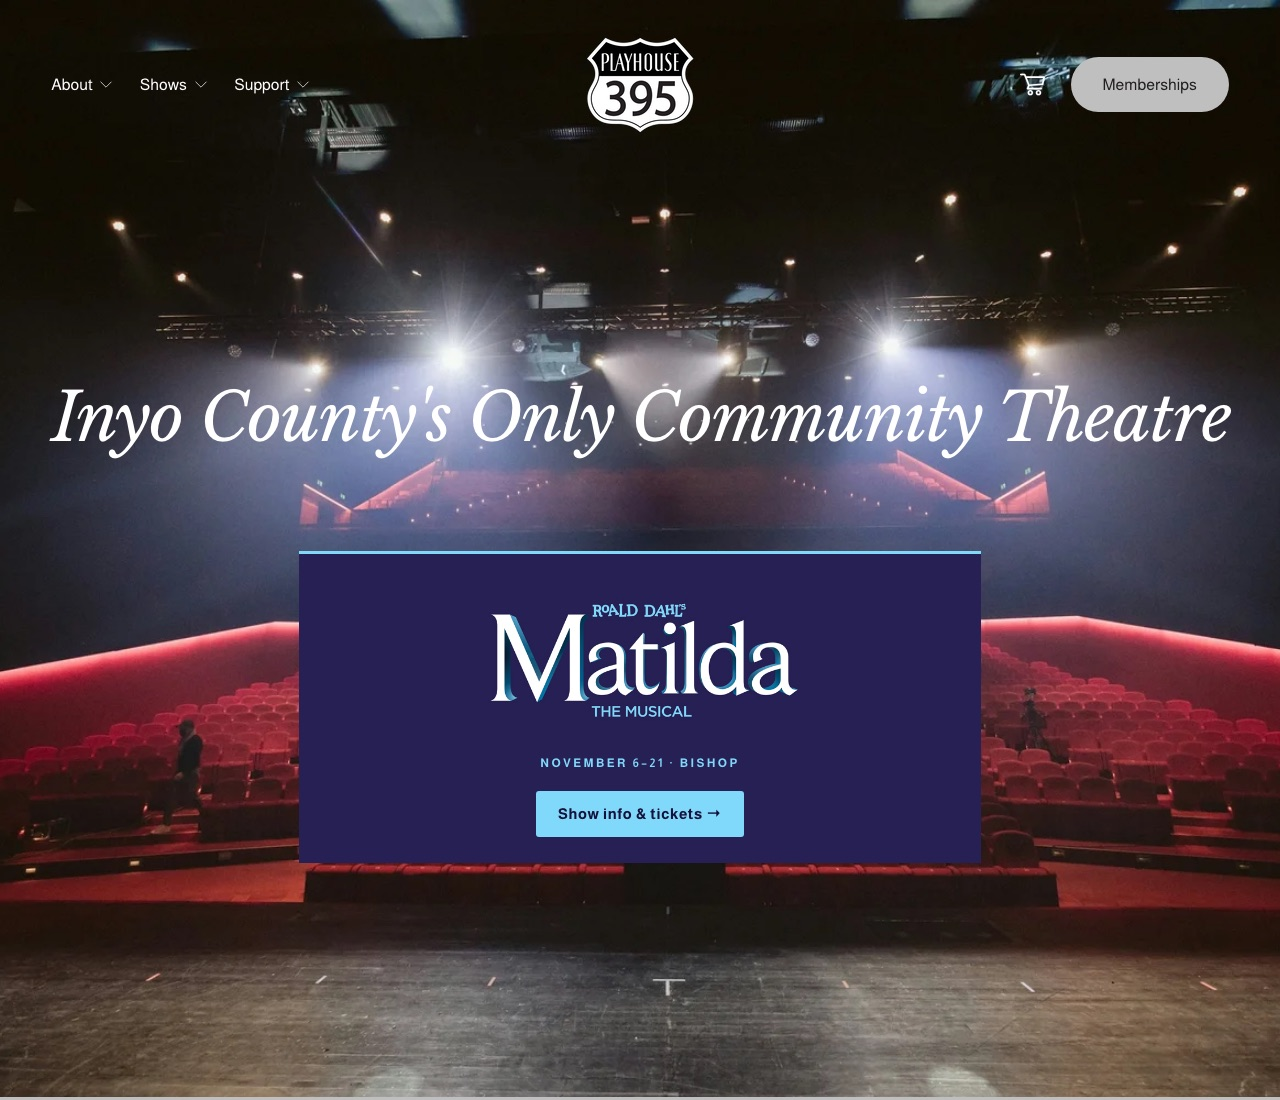
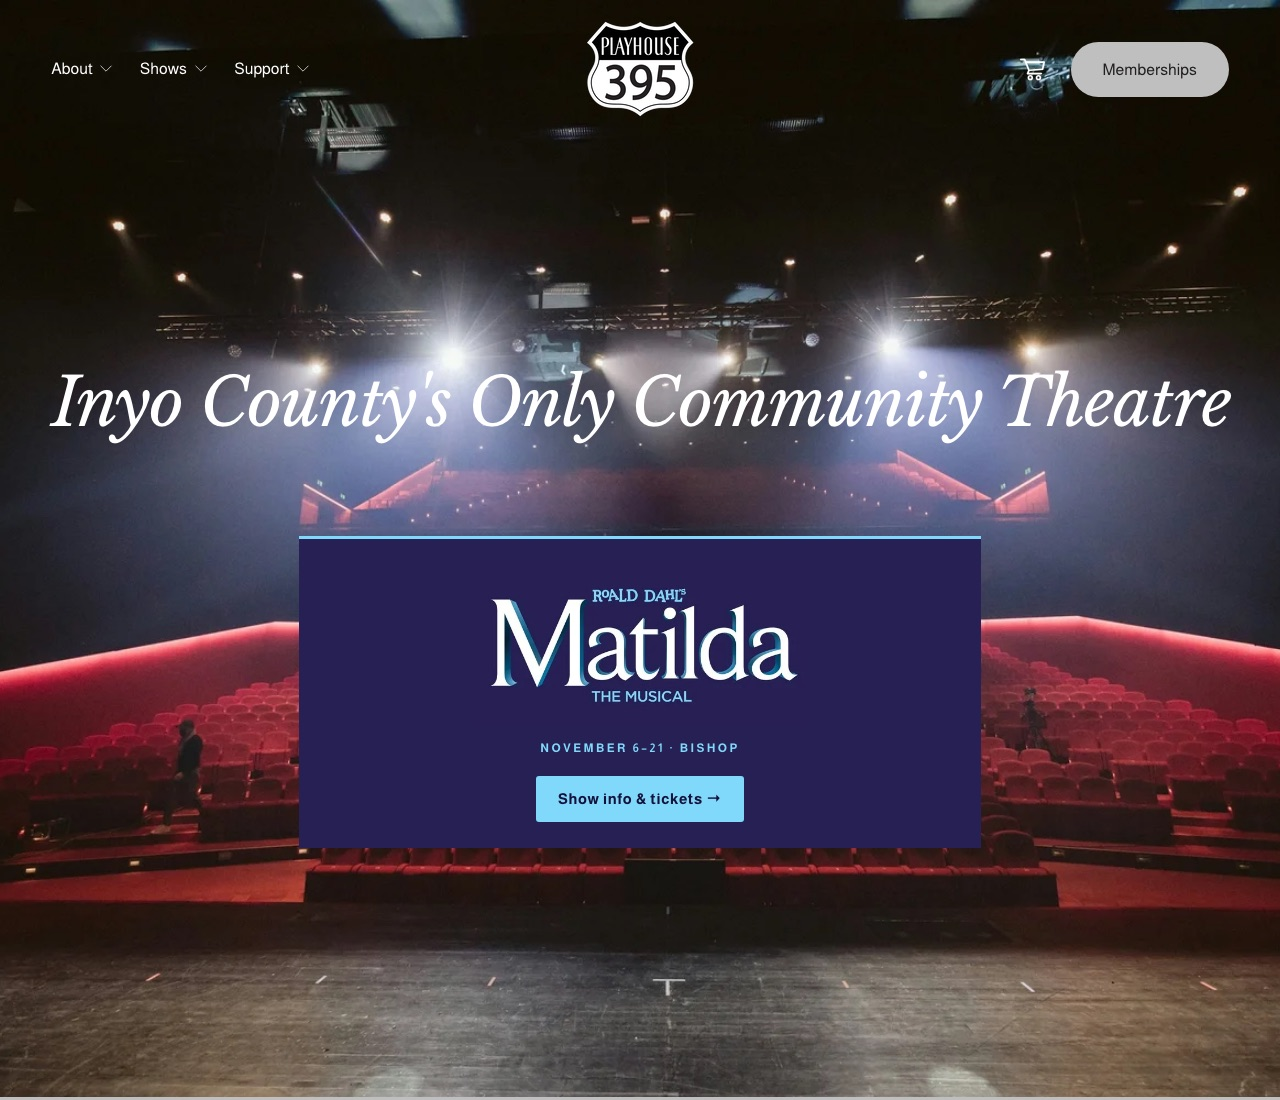
playhouse-395: Matilda publicity is live
The homepage card and the Matilda page are up on playhouse395.com and the
flyer is printed. The publicity page shows screenshots of the live homepage,
calls the old bar Before, marks the last step done, and its card says Live.
The playbook marks the publicity stage done and moves its next step on.

diff --git a/src/web/public/work/playhouse-395/matilda-publicity/index.html b/src/web/public/work/playhouse-395/matilda-publicity/index.html
@@ -107,7 +107,7 @@
 <div class="wrap">
 
   <header>
-    <div class="eyebrow"><a href="../">Playhouse 395</a> &middot; Confirmed direction &middot; October 2026</div>
+    <div class="eyebrow"><a href="../">Playhouse 395</a> &middot; Live &middot; October 2026</div>
     <h1>Matilda: the flyer and the website</h1>
     <p class="sub">The confirmed marketing direction for Matilda: the flyer, the playhouse395.com homepage,
     and the Matilda page, so that everything someone sees about the show says the same thing and leads to
@@ -142,7 +142,7 @@
         the website.</li>
       <li><b>Ticket prices are set:</b> $25 adults, $18 for seniors and students, $10 under 10.</li>
       <li><b>The flyer and the Matilda page say &ldquo;Not affiliated with BUSD&rdquo;</b>, in very small print.</li>
-      <li><b>Nothing is left to decide.</b> What remains is putting it live; section 4 has the steps.</li>
+      <li><b>It is all live:</b> the flyer is printed, and the homepage card and the Matilda page are up on playhouse395.com.</li>
     </ul>
   </div>
 
@@ -168,23 +168,23 @@
     <div class="sec-head">
       <div class="secnum">02 &middot; The homepage</div>
       <h2>&ldquo;See the cast list&rdquo; becomes &ldquo;Show info &amp; tickets&rdquo;</h2>
-      <p>The bar under the headline currently announces the cast. It is replaced by a Matilda
-      card in the show&rsquo;s colours with one button to the Matilda page. Everything else on the
-      homepage stays the same.</p>
+      <p>The bar under the headline used to announce the cast. It is now a Matilda card in the
+      show&rsquo;s colours with one button to the Matilda page. Everything else on the homepage stayed
+      the same.</p>
     </div>
     <div class="pair">
       <figure>
         <a href="img/home-today.jpg"><img src="img/home-today.jpg" alt="The playhouse395.com homepage today, with a Cast announced bar" width="1280" height="1100"></a>
-        <figcaption>Today</figcaption>
+        <figcaption>Before</figcaption>
       </figure>
       <figure>
-        <a href="img/home-proposed.jpg"><img src="img/home-proposed.jpg" alt="The homepage with the new Matilda card and a Show info and tickets button" width="1280" height="1100"></a>
-        <figcaption>New</figcaption>
+        <a href="img/home-proposed.jpg"><img src="img/home-proposed.jpg" alt="The homepage, live, with the Matilda card and a Show info and tickets button" width="1280" height="1100"></a>
+        <figcaption>Live now</figcaption>
       </figure>
     </div>
     <figure style="max-width:14rem">
-      <a href="img/home-proposed-phone.jpg"><img src="img/home-proposed-phone.jpg" alt="The new homepage card on a phone" width="500" height="1000"></a>
-      <figcaption>New, on a phone</figcaption>
+      <a href="img/home-proposed-phone.jpg"><img src="img/home-proposed-phone.jpg" alt="The homepage card, live, on a phone" width="500" height="1000"></a>
+      <figcaption>Live now, on a phone</figcaption>
     </figure>
   </section>
 
@@ -216,13 +216,13 @@
 
   <section id="open">
     <div class="sec-head">
-      <div class="secnum">04 &middot; Next</div>
-      <h2>Putting it live</h2>
+      <div class="secnum">04 &middot; Done</div>
+      <h2>Live</h2>
     </div>
     <table>
       <thead><tr><th>What</th><th>Why it matters</th><th>Who</th></tr></thead>
       <tbody>
-        <tr><td><span class="tag">Then</span>Put it live</td><td>Upload the artwork to the website, paste in the new homepage card and Matilda page, and print the flyers.</td><td class="who">Jeff</td></tr>
+        <tr><td><span class="tag">Done</span>Put it live</td><td>The artwork is on the website, the homepage card and the Matilda page are pasted in, and the flyer is printed.</td><td class="who">Jeff</td></tr>
       </tbody>
     </table>
   </section>

diff --git a/src/web/public/work/playhouse-395/show-playbook/index.html b/src/web/public/work/playhouse-395/show-playbook/index.html
@@ -240,10 +240,10 @@
         </ul>
       </div>
 
-      <div class="phase">
-        <div class="phase-head"><h3>5. Publicity and tickets</h3><span class="when">October</span><span class="status now">In progress</span></div>
+      <div class="phase done">
+        <div class="phase-head"><h3>5. Publicity and tickets</h3><span class="when">October</span><span class="status done">Done</span></div>
         <p>One look, one set of facts, everywhere: the flyer, the homepage and the show&rsquo;s page all say
-        the same thing and lead to the same place. The direction is confirmed; it is laid out on the
+        the same thing and lead to the same place. It is all live; it is laid out on the
         <a href="../matilda-publicity/">Matilda Publicity</a> page.</p>
         <ul class="pieces">
           <li><b>The licensed artwork</b><span>The show&rsquo;s official logo pack from the license. Its colours become the colours of everything else.</span></li>
@@ -323,7 +323,7 @@
       <h2>What happens from here</h2>
     </div>
     <ul class="notes">
-      <li><b>Put Matilda&rsquo;s website changes live</b> now that the direction is confirmed and tickets are on sale.</li>
+      <li><b>Plan the run and after-the-show stages</b> now that Matilda&rsquo;s publicity is live.</li>
       <li><b>Write the playbook down as we go</b>, one stage at a time, starting with publicity while it is fresh.</li>
       <li><b>Find one or two people</b> who would like to learn it. The best way is to do the next show
         alongside me, then lead the one after.</li>
